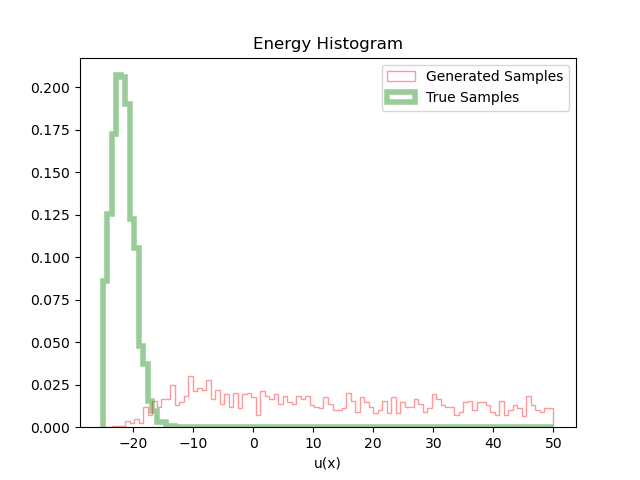
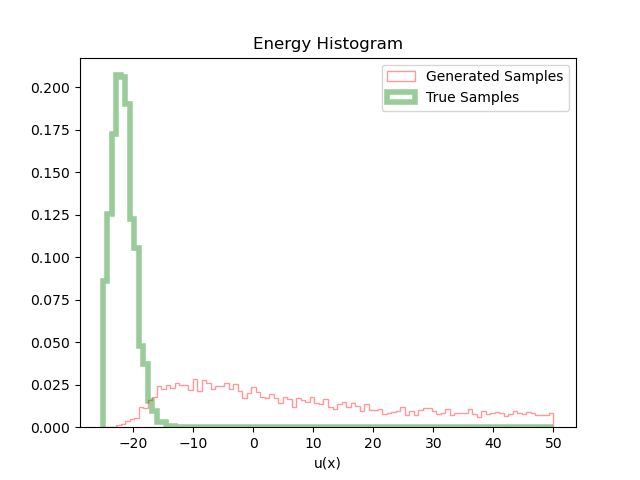
done with the plots

Changed region(s): [[0.5, 0.8125, 0.875, 0.875], [0.2188, 0.7812, 0.5, 0.875], [0.1875, 0.875, 0.2188, 0.9062]]

diff --git a/eval_and_plot.py b/eval_and_plot.py
@@ -186,8 +186,8 @@ def plot_generating_flow(args, data, flow, prior, target, latent, samples, model
             linewidth=4,
             label='True Samples');
     
-        plt.hist(energies_bg, bins=100, density=True, range=(min_energy, 50), alpha=0.4, histtype='step', linewidth=4,
-            color="b", label="Final Weighted Samples", weights=np.exp(-log_w));
+        # plt.hist(energies_bg, bins=100, density=True, range=(min_energy, 50), alpha=0.4, histtype='step', linewidth=4,
+            # color="b", label="Final Weighted Samples", weights=np.exp(-log_w));
 # 
         plt.xlabel("u(x)", fontsize=10)
         # plt.xticks([...])
@@ -195,7 +195,7 @@ def plot_generating_flow(args, data, flow, prior, target, latent, samples, model
         plt.title('Energy Histogram')
         plt.legend(fontsize=10)
 
-        save_best_path = f"final_generated_hists/model_{model_name}_lamb_{lamb}_with_weights.png"
+        save_best_path = f"final_generated_hists/model_{model_name}_lamb_{lamb}.png"
         os.makedirs(os.path.dirname(save_best_path), exist_ok=True)
         plt.savefig(save_best_path)
 
